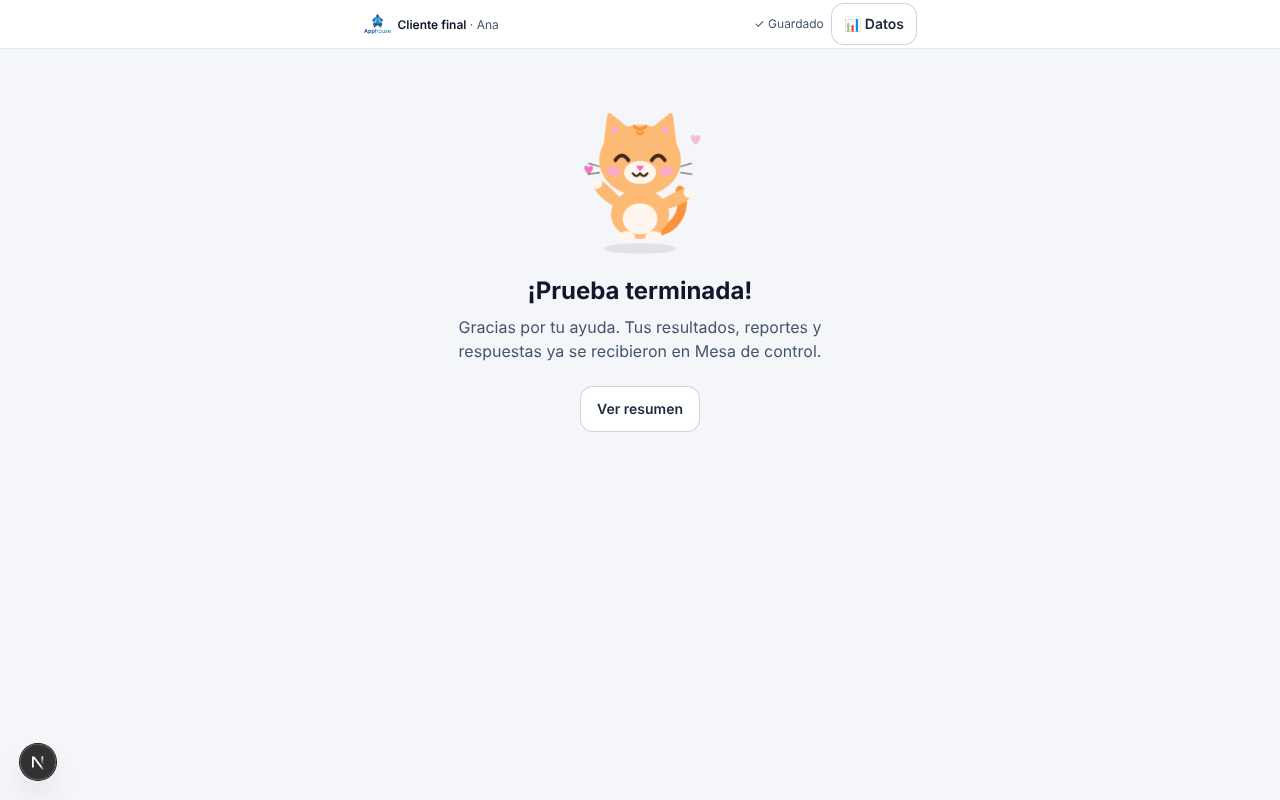
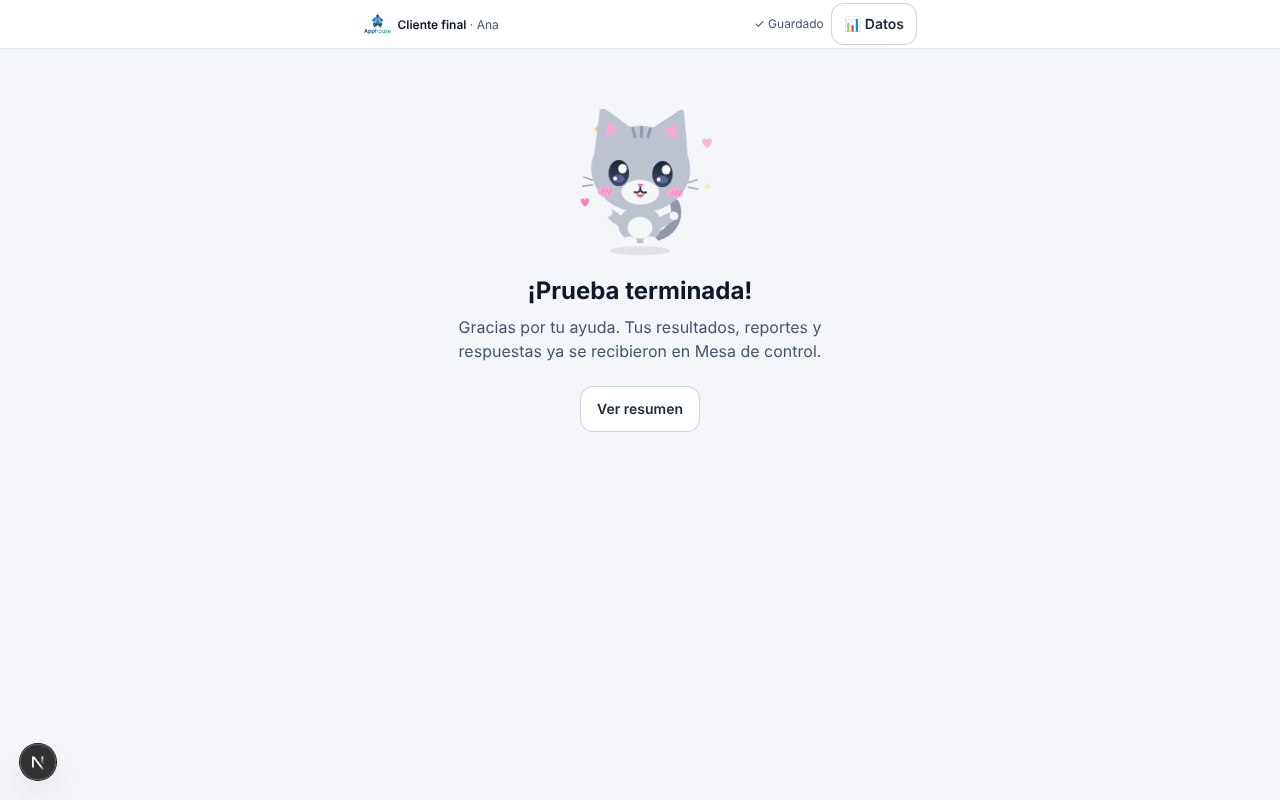
Gatito: gris y chibi estilo anime (cabeza grande, ojos brillantes, parpadea)
Claude-Session: https://claude.ai/code/session_01N7K9WQamBsYBDv7n5P1nDp

Changed region(s): [[0.4375, 0.125, 0.5625, 0.3125]]

diff --git a/src/components/HappyCat.tsx b/src/components/HappyCat.tsx
@@ -1,134 +1,167 @@
+import { useId } from "react";
+
 /**
- * Gatito feliz (kawaii) para la pantalla de «¡Gracias!» de las encuestas finales.
+ * Gatito gris feliz, chibi estilo anime, para la pantalla de «¡Gracias!» de las encuestas finales.
  *
- * Dibujo propio en SVG + animación CSS: sin Lottie, sin GIF y sin CDN (pesa ~4 KB dentro del
- * bundle). Rebota, mueve la cola, las orejas y las patitas, y le salen corazones.
- * Con «reducir movimiento» del sistema no se mueve nada; solo los corazones aparecen y se
- * desvanecen en su lugar.
+ * Dibujo propio en SVG + animación CSS: sin Lottie, sin GIF y sin CDN (unos KB dentro del bundle).
+ * Rebota, ladea la cabeza, parpadea, mueve la cola y las patitas, y le salen corazones y destellos.
+ * Con «reducir movimiento» del sistema no se mueve nada; solo los corazones y destellos aparecen y
+ * se desvanecen en su lugar.
  */
 
 const CSS = `
 .hc-svg .hc-a{transform-box:fill-box;animation-timing-function:ease-in-out;animation-iteration-count:infinite}
 .hc-bounce{transform-origin:50% 100%;animation:hc-bounce 1.4s}
+.hc-head{transform-origin:50% 90%;animation:hc-tilt 2.8s}
 .hc-tail{transform-origin:0% 100%;animation:hc-tail 1s}
-.hc-ear-l{transform-origin:70% 100%;animation:hc-ear 2.8s}
-.hc-ear-r{transform-origin:30% 100%;animation:hc-ear 2.8s .35s}
+.hc-ear-l{transform-origin:70% 100%;animation:hc-ear 3.2s}
+.hc-ear-r{transform-origin:30% 100%;animation:hc-ear 3.2s .4s}
 .hc-paw-l{transform-origin:100% 100%;animation:hc-paw-l .7s}
 .hc-paw-r{transform-origin:0% 100%;animation:hc-paw-r .7s .35s}
-.hc-heart{transform-origin:50% 50%;opacity:0;animation:hc-heart 2.4s ease-out infinite}
-.hc-h2{animation-delay:.8s}.hc-h3{animation-delay:1.6s}
+.hc-eye{transform-origin:50% 50%;animation:hc-blink 3.6s}
+.hc-pop{transform-origin:50% 50%;opacity:0;animation:hc-pop 2.4s ease-out infinite}
+.hc-d2{animation-delay:.8s}.hc-d3{animation-delay:1.6s}.hc-d4{animation-delay:.4s}.hc-d5{animation-delay:1.2s}
 @keyframes hc-bounce{0%,100%{transform:translateY(0) scale(1,1)}40%{transform:translateY(-9px) scale(.97,1.03)}75%{transform:translateY(0) scale(1.04,.96)}}
-@keyframes hc-tail{0%,100%{transform:rotate(-12deg)}50%{transform:rotate(16deg)}}
-@keyframes hc-ear{0%,80%,100%{transform:rotate(0)}88%{transform:rotate(-10deg)}94%{transform:rotate(6deg)}}
-@keyframes hc-paw-l{0%,100%{transform:rotate(0)}50%{transform:rotate(-22deg)}}
-@keyframes hc-paw-r{0%,100%{transform:rotate(0)}50%{transform:rotate(22deg)}}
-@keyframes hc-heart{0%{opacity:0;transform:translateY(8px) scale(.4)}20%{opacity:1;transform:translateY(0) scale(1)}100%{opacity:0;transform:translateY(-34px) scale(.8)}}
+@keyframes hc-tilt{0%,100%{transform:rotate(-4deg)}50%{transform:rotate(4deg)}}
+@keyframes hc-tail{0%,100%{transform:rotate(-14deg)}50%{transform:rotate(16deg)}}
+@keyframes hc-ear{0%,80%,100%{transform:rotate(0)}88%{transform:rotate(-12deg)}94%{transform:rotate(6deg)}}
+@keyframes hc-paw-l{0%,100%{transform:rotate(0)}50%{transform:rotate(-24deg)}}
+@keyframes hc-paw-r{0%,100%{transform:rotate(0)}50%{transform:rotate(24deg)}}
+@keyframes hc-blink{0%,90%,100%{transform:scaleY(1)}94%{transform:scaleY(.08)}}
+@keyframes hc-pop{0%{opacity:0;transform:translateY(8px) scale(.4)}20%{opacity:1;transform:translateY(0) scale(1)}100%{opacity:0;transform:translateY(-30px) scale(.8)}}
 @keyframes hc-fade{0%,100%{opacity:0}50%{opacity:1}}
 @media (prefers-reduced-motion:reduce){
   .hc-svg .hc-a{animation:none}
-  .hc-heart{animation:hc-fade 2.4s ease-in-out infinite}
+  .hc-pop{animation:hc-fade 2.4s ease-in-out infinite}
 }
 `;
 
-const FUR = "#FDBA74";
-const FUR_DARK = "#FB923C";
-const CREAM = "#FFF7ED";
-const INK = "#3F2A1E";
+const FUR = "#BCC3CE";
+const FUR_DARK = "#8F98A6";
+const CREAM = "#F5F6F8";
+const INK = "#2E3440";
 const PINK = "#F9A8D4";
+const HOT_PINK = "#F472B6";
 
 function Heart({ x, y, s = 1, cls }: { x: number; y: number; s?: number; cls: string }) {
   return (
     <g transform={`translate(${x} ${y}) scale(${s})`}>
-      <path
-        className={`hc-heart ${cls}`}
-        d="M0 6 C-8 0 -8 -7 -3.5 -7 C-1.5 -7 0 -5.5 0 -4 C0 -5.5 1.5 -7 3.5 -7 C8 -7 8 0 0 6 Z"
-        fill="#F472B6"
-      />
+      <path className={`hc-pop ${cls}`} d="M0 6 C-8 0 -8 -7 -3.5 -7 C-1.5 -7 0 -5.5 0 -4 C0 -5.5 1.5 -7 3.5 -7 C8 -7 8 0 0 6 Z" fill={HOT_PINK} />
+    </g>
+  );
+}
+
+function Sparkle({ x, y, s = 1, cls }: { x: number; y: number; s?: number; cls: string }) {
+  return (
+    <g transform={`translate(${x} ${y}) scale(${s})`}>
+      <path className={`hc-pop ${cls}`} d="M0 -8 Q1.5 -1.5 8 0 Q1.5 1.5 0 8 Q-1.5 1.5 -8 0 Q-1.5 -1.5 0 -8 Z" fill="#FBBF24" />
+    </g>
+  );
+}
+
+/** Ojo grande de anime: iris con degradado y dos brillos. */
+function Eye({ cx, cy, grad }: { cx: number; cy: number; grad: string }) {
+  return (
+    <g className="hc-a hc-eye">
+      <ellipse cx={cx} cy={cy} rx="14" ry="17" fill={`url(#${grad})`} />
+      <ellipse cx={cx} cy={cy + 7} rx="8" ry="5" fill="#7C8BB8" opacity=".55" />
+      <circle cx={cx + 5} cy={cy - 6} r="6" fill="#fff" />
+      <circle cx={cx - 5} cy={cy + 7} r="2.6" fill="#fff" />
     </g>
   );
 }
 
 export function HappyCat({ size = 132, className = "" }: { size?: number; className?: string }) {
+  const grad = `hc-iris-${useId().replace(/:/g, "")}`;
   return (
-    <svg
-      viewBox="0 0 200 200"
-      width={size}
-      height={size}
-      className={`hc-svg ${className}`}
-      role="img"
-      aria-label="Gatito feliz"
-      data-testid="happy-cat"
-    >
+    <svg viewBox="0 0 200 200" width={size} height={size} className={`hc-svg ${className}`} role="img" aria-label="Gatito feliz" data-testid="happy-cat">
       <style>{CSS}</style>
-      {/* sombra */}
-      <ellipse cx="100" cy="186" rx="48" ry="7" fill="#000" opacity=".08" />
+      <defs>
+        <linearGradient id={grad} x1="0" y1="0" x2="0" y2="1">
+          <stop offset="0" stopColor="#1F2433" />
+          <stop offset="1" stopColor="#3B4A73" />
+        </linearGradient>
+      </defs>
 
-      {/* corazones */}
-      <Heart x={40} y={58} s={1.3} cls="hc-h1" />
-      <Heart x={162} y={50} s={1.1} cls="hc-h2" />
-      <Heart x={30} y={80} s={0.9} cls="hc-h3" />
+      {/* sombra */}
+      <ellipse cx="100" cy="189" rx="40" ry="6" fill="#000" opacity=".08" />
+
+      {/* corazones y destellos */}
+      <Heart x={24} y={60} s={1.3} cls="hc-d1" />
+      <Heart x={178} y={52} s={1.1} cls="hc-d2" />
+      <Heart x={22} y={120} s={0.9} cls="hc-d3" />
+      <Sparkle x={176} y={110} s={0.9} cls="hc-d4" />
+      <Sparkle x={40} y={28} s={0.7} cls="hc-d5" />
 
       <g className="hc-a hc-bounce">
         {/* cola (detrás del cuerpo) */}
-        <path
-          className="hc-a hc-tail"
-          d="M128 166 C150 164 162 150 160 130 C159 120 168 116 172 124 C178 142 166 176 130 178 Z"
-          fill={FUR_DARK}
-        />
+        <path className="hc-a hc-tail" d="M120 176 C140 176 152 164 152 148 C152 140 160 136 164 142 C170 158 158 186 124 186 Z" fill={FUR_DARK} />
 
-        {/* cuerpo */}
-        <ellipse cx="100" cy="150" rx="40" ry="32" fill={FUR} />
-        <ellipse cx="100" cy="156" rx="24" ry="20" fill={CREAM} />
-        {/* patitas de abajo */}
-        <ellipse cx="82" cy="179" rx="11" ry="7" fill={CREAM} />
-        <ellipse cx="118" cy="179" rx="11" ry="7" fill={CREAM} />
+        {/* cuerpo chiquito */}
+        <ellipse cx="100" cy="164" rx="30" ry="24" fill={FUR} />
+        <ellipse cx="100" cy="168" rx="17" ry="14" fill={CREAM} />
+        <ellipse cx="86" cy="185" rx="10" ry="6" fill={CREAM} />
+        <ellipse cx="114" cy="185" rx="10" ry="6" fill={CREAM} />
 
         {/* patitas arriba, celebrando */}
         <g className="hc-a hc-paw-l">
-          <path d="M70 142 C56 136 42 124 38 114 C35 106 43 101 50 106 C58 112 68 122 76 132 Z" fill={FUR} />
-          <ellipse cx="42" cy="109" rx="7.5" ry="6.5" fill={CREAM} />
+          <path d="M76 168 C66 162 58 154 56 148 C54 142 60 139 65 142 C71 146 77 152 82 158 Z" fill={FUR} />
+          <ellipse cx="59" cy="145" rx="6" ry="5.5" fill={CREAM} />
         </g>
         <g className="hc-a hc-paw-r">
-          <path d="M130 142 C144 136 158 124 162 114 C165 106 157 101 150 106 C142 112 132 122 124 132 Z" fill={FUR} />
-          <ellipse cx="158" cy="109" rx="7.5" ry="6.5" fill={CREAM} />
+          <path d="M124 168 C134 162 142 154 144 148 C146 142 140 139 135 142 C129 146 123 152 118 158 Z" fill={FUR} />
+          <ellipse cx="141" cy="145" rx="6" ry="5.5" fill={CREAM} />
         </g>
 
-        {/* orejas */}
-        <g className="hc-a hc-ear-l">
-          <path d="M52 66 L58 22 L90 46 Z" fill={FUR} strokeLinejoin="round" stroke={FUR} strokeWidth="6" />
-          <path d="M60 58 L63 34 L80 48 Z" fill={PINK} />
-        </g>
-        <g className="hc-a hc-ear-r">
-          <path d="M148 66 L142 22 L110 46 Z" fill={FUR} strokeLinejoin="round" stroke={FUR} strokeWidth="6" />
-          <path d="M140 58 L137 34 L120 48 Z" fill={PINK} />
-        </g>
+        {/* cabeza grande (chibi) */}
+        <g className="hc-a hc-head">
+          <g className="hc-a hc-ear-l">
+            <path d="M40 72 L46 18 L86 44 Z" fill={FUR} strokeLinejoin="round" stroke={FUR} strokeWidth="8" />
+            <path d="M50 62 L53 32 L76 47 Z" fill={PINK} />
+          </g>
+          <g className="hc-a hc-ear-r">
+            <path d="M160 72 L154 18 L114 44 Z" fill={FUR} strokeLinejoin="round" stroke={FUR} strokeWidth="8" />
+            <path d="M150 62 L147 32 L124 47 Z" fill={PINK} />
+          </g>
 
-        {/* cabeza */}
-        <ellipse cx="100" cy="80" rx="56" ry="46" fill={FUR} />
-        {/* rayitas */}
-        <path d="M92 36 Q100 44 108 36" stroke={FUR_DARK} strokeWidth="4" fill="none" strokeLinecap="round" />
-        <path d="M96 44 Q100 48 104 44" stroke={FUR_DARK} strokeWidth="3.5" fill="none" strokeLinecap="round" />
-        {/* hocico */}
-        <ellipse cx="100" cy="96" rx="22" ry="15" fill={CREAM} />
+          <ellipse cx="100" cy="92" rx="68" ry="56" fill={FUR} />
+          {/* rayitas */}
+          <g stroke={FUR_DARK} strokeWidth="4" strokeLinecap="round" fill="none">
+            <path d="M100 38 L100 50" />
+            <path d="M88 40 L91 50" />
+            <path d="M112 40 L109 50" />
+          </g>
+          {/* hocico claro */}
+          <ellipse cx="100" cy="122" rx="26" ry="16" fill={CREAM} />
 
-        {/* ojitos felices ^ ^ */}
-        <path d="M66 80 Q75 68 84 80" stroke={INK} strokeWidth="5" fill="none" strokeLinecap="round" />
-        <path d="M116 80 Q125 68 134 80" stroke={INK} strokeWidth="5" fill="none" strokeLinecap="round" />
+          <Eye cx={70} cy={98} grad={grad} />
+          <Eye cx={130} cy={98} grad={grad} />
 
-        {/* chapitas */}
-        <ellipse cx="64" cy="94" rx="10" ry="6" fill={PINK} opacity=".85" />
-        <ellipse cx="136" cy="94" rx="10" ry="6" fill={PINK} opacity=".85" />
+          {/* chapitas con rayitas de anime */}
+          <ellipse cx="52" cy="122" rx="11" ry="6.5" fill={PINK} opacity=".85" />
+          <ellipse cx="148" cy="122" rx="11" ry="6.5" fill={PINK} opacity=".85" />
+          <g stroke={HOT_PINK} strokeWidth="1.8" strokeLinecap="round" opacity=".7">
+            <path d="M47 125 L50 119" />
+            <path d="M52 125 L55 119" />
+            <path d="M57 125 L60 119" />
+            <path d="M143 125 L146 119" />
+            <path d="M148 125 L151 119" />
+            <path d="M153 125 L156 119" />
+          </g>
 
-        {/* nariz y boquita ω */}
-        <path d="M96 88 L104 88 L100 93 Z" fill="#F472B6" strokeLinejoin="round" stroke="#F472B6" strokeWidth="2" />
-        <path d="M90 97 Q95 104 100 97 Q105 104 110 97" stroke={INK} strokeWidth="3" fill="none" strokeLinecap="round" strokeLinejoin="round" />
+          {/* nariz y boquita abierta feliz */}
+          <path d="M97 112 L103 112 L100 115.5 Z" fill={HOT_PINK} strokeLinejoin="round" stroke={HOT_PINK} strokeWidth="2" />
+          <path d="M100 116 Q100 124 92 122" stroke={INK} strokeWidth="2.5" fill="none" strokeLinecap="round" />
+          <path d="M100 116 Q100 124 108 122" stroke={INK} strokeWidth="2.5" fill="none" strokeLinecap="round" />
+          <path d="M94 124 Q100 134 106 124 Q100 126 94 124 Z" fill="#E5566F" />
 
-        {/* bigotes */}
-        <g stroke={INK} strokeWidth="2" strokeLinecap="round" opacity=".55">
-          <path d="M44 88 L30 84" />
-          <path d="M44 96 L29 98" />
-          <path d="M156 88 L170 84" />
-          <path d="M156 96 L171 98" />
+          {/* bigotes */}
+          <g stroke={INK} strokeWidth="1.8" strokeLinecap="round" opacity=".45">
+            <path d="M34 108 L22 104" />
+            <path d="M34 114 L21 116" />
+            <path d="M166 108 L178 104" />
+            <path d="M166 114 L179 116" />
+          </g>
         </g>
       </g>
     </svg>
